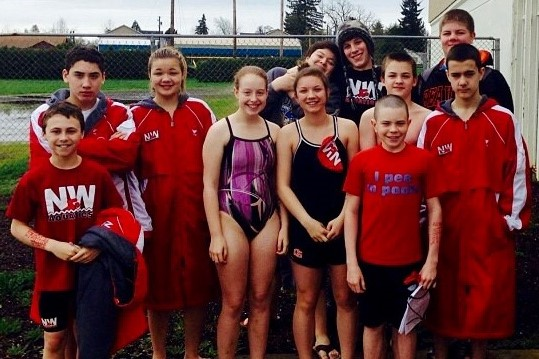
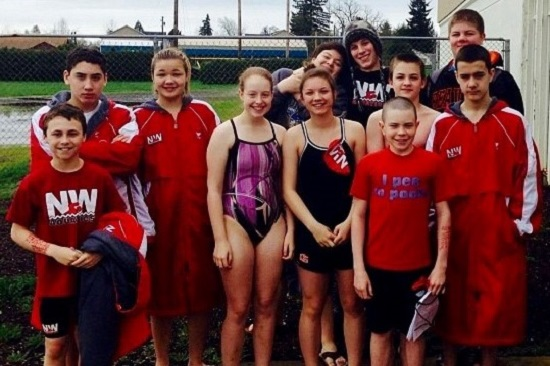
add about-swim responsive imgs

diff --git a/about-swim.html b/about-swim.html
@@ -100,13 +100,19 @@
 							quickly and I enjoyed the feeling of such rapid development.</p>
 					</div>
 					<div class="half_image_column">
-						<img src="images/about/swim/swim_butterfly.jpg" alt="Swim Butterfly">
+						<img srcset="
+						./images/about/swim/swim_butterfly_400_w.webp 400w,
+						./images/about/swim/swim_butterfly_1000_w.webp 800w" sizes="(max-width: 980px) 100vw, 55vw" loading="lazy"
+						decoding="async" src="./images/about/swim/swim_butterfly.jpg" alt="Swim Butterfly">
 					</div>
 				</div>
 				<hr class="mobile_only">
 				<div class="row">
 					<div class="half_image_column">
-						<img src="images/about/swim/swim_meet.jpeg" alt="Swim Meet">
+						<img srcset="
+						./images/about/swim/swim_meet_400_w.webp 400w,
+						./images/about/swim/swim_meet_900_w.webp 800w" sizes="(max-width: 980px) 100vw, 55vw" loading="lazy"
+						decoding="async" src="./images/about/swim/swim_meet.jpeg" alt="Swim Meet">
 					</div>
 					<div class="half_text_column">
 						<h3>Diving In</h3>
@@ -126,10 +132,16 @@
 
 				<div class="image_gallery">
 					<div class="half_column">
-						<img src="images/about/swim/swim_friends.jpg" alt="Swim Friends">
+						<img srcset="
+						./images/about/swim/swim_friends_400_w.webp 400w,
+						./images/about/swim/swim_friends_1000_w.webp 1000w" sizes="(max-width: 980px) 100vw, 55vw" loading="lazy"
+						decoding="async" src="./images/about/swim/swim_friends.jpg" alt="Swim Friends">
 					</div>
 					<div class="half_column">
-						<img src="images/about/swim/swim_2014.jpg" alt="Swim (2014)">
+						<img srcset="
+						./images/about/swim/swim_2014_400_w.webp 400w,
+						./images/about/swim/swim_2014_550_w.webp 550w" sizes="(max-width: 980px) 100vw, 55vw" loading="lazy"
+						decoding="async" src="./images/about/swim/swim_2014.jpg" alt="Swim (2014)">
 					</div>
 				</div>
 			</div>

diff --git a/images/image_generator.py b/images/image_generator.py
@@ -114,5 +114,6 @@ if __name__ == "__main__":
 
     convert_folder(r".\images\about\learning", [400, 1000], exclude=['background'])
     convert_folder(r".\images\about\music", [400, 1000])
+    convert_folder(r".\images\about\swim", [400, 1000])
 
     # convert_folder(r".\images\portfolio\contact", [400], include=['affiliated_organizations'])
